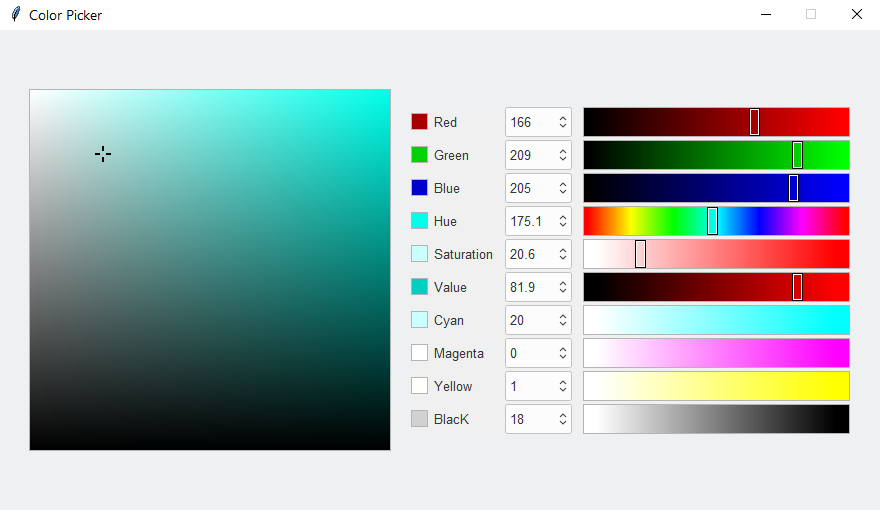
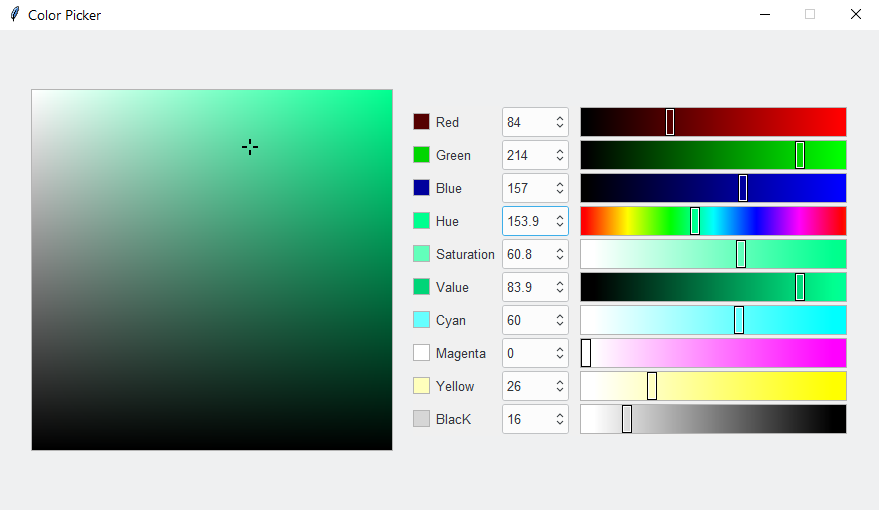
yeah

diff --git a/color palette.py b/color palette.py
@@ -7,7 +7,7 @@ import colorsys
 import math
 from itertools import count
 from functools import partial
-44
+
 #convert RGB to HEX 
 def rgb_to_hex(rgb):
     return '#%02X%02X%02X' % (int(rgb[0]), int(rgb[1]), int(rgb[2]))
@@ -153,16 +153,12 @@ class ColorPicker(ThemedTk):
         self.grid_columnconfigure(4, weight=1)
 
         #key binding
-        self.h_slider.bind('<B1-Motion>', self.pick_hue)
-        self.h_slider.bind('<Button-1>', self.pick_hue)
         self.saturation_value_picker.bind('<B1-Motion>', self.pick_saturation_value)
         self.saturation_value_picker.bind('<Button-1>', self.pick_saturation_value)
-
-        self.bind_slider = lambda i, j, v: self.nametowidget(f'.property.slider_{v}').bind(j, lambda e: self.pick_rgb(e, v, f'rgb{i}'))
-
-        for i, v in enumerate('rgb'): 
-            for j in ['<B1-Motion>', '<Button-1>']:
-                self.bind_slider(i, j, v)
+  
+        [self.nametowidget(f'.property.slider_{v}').bind(j, partial(self.pick_rgb, v, f'rgb{i}')) for j in ['<B1-Motion>', '<Button-1>'] for i, v in enumerate('rgb')]
+        [self.nametowidget(f'.property.slider_{v}').bind(j, partial(self.pick_hsv, v, f'hsv{i}')) for j in ['<B1-Motion>', '<Button-1>'] for i, v in enumerate('hsv')]
+        [self.nametowidget(f'.property.slider_{v}').bind(j, partial(self.pick_cmyk, v, f'cmyk{i}')) for j in ['<B1-Motion>', '<Button-1>'] for i, v in enumerate('cmyk')]
         
         #post initialization
 
@@ -170,15 +166,21 @@ class ColorPicker(ThemedTk):
         self.sliders = {
             **{
                 v: [
-                    self.nametowidget(f'.property.slider_{v}').create_rectangle(self.current_rgb[i].get(), 1, self.current_rgb[i].get()+10, 28, outline='black', width=1),
-                    self.nametowidget(f'.property.slider_{v}').create_rectangle(self.current_rgb[i].get()+1, 2, self.current_rgb[i].get()+9, 27, outline='white', width=1)
+                    self.nametowidget(f'.property.slider_{v}').create_rectangle(self.current_rgb[i].get()+2, 1, self.current_rgb[i].get()+10, 28, outline='black', width=1),
+                    self.nametowidget(f'.property.slider_{v}').create_rectangle(self.current_rgb[i].get()+3, 2, self.current_rgb[i].get()+9, 27, outline='white', width=1)
                 ] for i, v in enumerate('rgb')
             }, 
             **{
                 v: [
-                    self.nametowidget(f'.property.slider_{v}').create_rectangle(self.current_hsv[i].get()*255, 1, self.current_hsv[i].get()*255+10, 28, outline='black', width=1),
-                    self.nametowidget(f'.property.slider_{v}').create_rectangle(self.current_hsv[i].get()*255+1, 2, self.current_hsv[i].get()*255+9, 27, outline='white', width=1)
+                    self.nametowidget(f'.property.slider_{v}').create_rectangle(self.current_hsv[i].get()*255+1, 1, self.current_hsv[i].get()*255+10, 28, outline='black', width=1),
+                    self.nametowidget(f'.property.slider_{v}').create_rectangle(self.current_hsv[i].get()*255+2, 2, self.current_hsv[i].get()*255+9, 27, outline='white', width=1)
                 ] for i, v in enumerate('hsv')
+            }, 
+            **{
+                v: [
+                    self.nametowidget(f'.property.slider_{v}').create_rectangle(self.current_cmyk[i].get()/100*255+1, 1, self.current_cmyk[i].get()/100*255+10, 28, outline='black', width=1),
+                    self.nametowidget(f'.property.slider_{v}').create_rectangle(self.current_cmyk[i].get()/100*255+2, 2, self.current_cmyk[i].get()/100*255+9, 27, outline='white', width=1)
+                ] for i, v in enumerate('cmyk')
             }, 
         }
 
@@ -191,17 +193,15 @@ class ColorPicker(ThemedTk):
             self.current_rgb[i].set(self.nametowidget(f'.property.rgb{i}').get())
             [self.current_hsv[i].set(v) for i, v in enumerate(rgb_to_hsv(*(i.get() for i in self.current_rgb)))]
             [self.current_cmyk[i].set(v) for i, v in enumerate(rgb_to_cmyk(*(i.get() for i in self.current_rgb)))]
-            self.update_property(rgb=False)
         if cat=='hsv':
             self.current_hsv[i].set(float(self.nametowidget(f'.property.hsv{i}').get())/(360 if not i else 100))
             [self.current_rgb[i].set(round(v)) for i, v in enumerate(hsv_to_rgb(*(i.get() for i in self.current_hsv)))]
             [self.current_cmyk[i].set(v) for i, v in enumerate(rgb_to_cmyk(*(i.get() for i in self.current_rgb)))]
-            self.update_property(hsv=False)
         if cat=='cmyk':
             self.current_cmyk[i].set(float(self.nametowidget(f'.property.cmyk{i}').get()))
             [self.current_rgb[i].set(v) for i, v, in enumerate(cmyk_to_rgb(*(i.get() for i in self.current_cmyk)))]
             [self.current_hsv[i].set(v) for i, v in enumerate(rgb_to_hsv(*(i.get() for i in self.current_rgb)))]
-            self.update_property(cmyk=False)
+        self.update_property()
         
     def generate_slider(self):
         rgb_canvas = Image.new("RGB", (266, 28), "#000000")
@@ -224,25 +224,34 @@ class ColorPicker(ThemedTk):
 
         [self.nametowidget(f'.property.slider_{i}').create_image(1, 1, image=eval(f'self.{i}_img'), anchor=NW) for i in 'rgbhsvcmyk']
 
-    def update_slider(self, rgb=True, hsv=True, cmyk=True):
-        if rgb:
-            for i, v in enumerate('rgb'):
-                [self.nametowidget(f'.property.slider_{v}').delete(i) for i in self.sliders[v]]
-                self.sliders[v] = [
-                    self.nametowidget(f'.property.slider_{v}').create_rectangle(self.current_rgb[i].get(), 1, self.current_rgb[i].get()+10, 28, outline='black', width=1),
-                    self.nametowidget(f'.property.slider_{v}').create_rectangle(self.current_rgb[i].get()+1, 2, self.current_rgb[i].get()+9, 27, outline='white', width=1)
-                ]
-        if hsv: 
-            for i, v in enumerate('hsv'):
-                [self.nametowidget(f'.property.slider_{v}').delete(i) for i in self.sliders[v]]
-                self.sliders[v] = [
-                    self.nametowidget(f'.property.slider_{v}').create_rectangle(self.current_hsv[i].get()*255, 1, self.current_hsv[i].get()*255+10, 28, outline='black', width=1),
-                    self.nametowidget(f'.property.slider_{v}').create_rectangle(self.current_hsv[i].get()*255+1, 2, self.current_hsv[i].get()*255+9, 27, outline='white', width=1)
-                ]
-        if cmyk: 
-            pass
+    def update_slider(self):
+        [self.nametowidget(f'.property.slider_{v}').delete('all') for v in 'sv']
+        sv_canvas = Image.new("RGB", (111, 28), "#FFFFFF")
+        sv_draw = ImageDraw.Draw(sv_canvas)
+        sv_img = {f'{v}_img': [sv_draw.line((s, 0, s, 28), fill=tuple(map(int, hsv_to_rgb(self.current_hsv[0].get(), 1 if c else (s-5)/100, (s-5)/100 if c else 1)))) for s in range(111)] and ImageTk.PhotoImage(sv_canvas.resize((265, 28))) for c, v in enumerate('sv')}
+        self.__dict__.update(sv_img)
+        [self.nametowidget(f'.property.slider_{i}').create_image(1, 1, image=eval(f'self.{i}_img'), anchor=NW) for i in 'sv']
 
-    def pick_rgb(self, e, t, n):
+        for i, v in enumerate('rgb'):
+            [self.nametowidget(f'.property.slider_{v}').delete(i) for i in self.sliders[v]]
+            self.sliders[v] = [
+                self.nametowidget(f'.property.slider_{v}').create_rectangle(self.current_rgb[i].get()+1, 1, self.current_rgb[i].get()+10, 28, outline='black', width=1),
+                self.nametowidget(f'.property.slider_{v}').create_rectangle(self.current_rgb[i].get()+2, 2, self.current_rgb[i].get()+9, 27, outline='white', width=1)
+            ]
+        for i, v in enumerate('hsv'):
+            [self.nametowidget(f'.property.slider_{v}').delete(i) for i in self.sliders[v]]
+            self.sliders[v] = [
+                self.nametowidget(f'.property.slider_{v}').create_rectangle(self.current_hsv[i].get()*255+1, 1, self.current_hsv[i].get()*255+10, 28, outline='black', width=1),
+                self.nametowidget(f'.property.slider_{v}').create_rectangle(self.current_hsv[i].get()*255+2, 2, self.current_hsv[i].get()*255+9, 27, outline='white', width=1)
+            ]
+        for i, v in enumerate('cmyk'):
+            [self.nametowidget(f'.property.slider_{v}').delete(i) for i in self.sliders[v]]
+            self.sliders[v] = [
+                self.nametowidget(f'.property.slider_{v}').create_rectangle(self.current_cmyk[i].get()/100*255+1, 1, self.current_cmyk[i].get()/100*255+10, 28, outline='black', width=1),
+                self.nametowidget(f'.property.slider_{v}').create_rectangle(self.current_cmyk[i].get()/100*255+2, 2, self.current_cmyk[i].get()/100*255+9, 27, outline='white', width=1)
+            ]
+
+    def pick_rgb(self, t, n, e):
         if e.x < 5: e.x = 5
         if e.x > 260: e.x = 260
 
@@ -254,37 +263,41 @@ class ColorPicker(ThemedTk):
         ]
         self.nametowidget(f'.property.{n}').set(e.x-5)
         self.update_rgb(f'.property.{n}', e.x-5)
-        self.update_slider(rgb=False)
+        self.update_slider()
 
     #things to do when user pick a new hue value in the colorful line
-    def pick_hue(self, e):
+    def pick_hsv(self, t, n, e):
         #prevent mouse coordinates out of range
         if e.x < 5: e.x = 5
         if e.x > 260: e.x = 260
 
-        [self.h_slider.delete(i) for i in self.sliders['h']]
-        self.sliders['h'] = [
-            self.h_slider.create_rectangle(e.x-5, 1, e.x+5, 28, outline='black', width=1),
-            self.h_slider.create_rectangle(e.x-4, 2, e.x+4, 27, outline='white', width=1)
+        if t=='h':
+            self.curr_hue = (e.x-5)/255*360
+            self.generate_saturation_value()
+
+        slider = self.nametowidget(f'.property.slider_{t}')
+        [slider.delete(i) for i in self.sliders[t]]
+        self.sliders[t] = [
+            slider.create_rectangle(e.x-5, 1, e.x+5, 28, outline='black', width=1),
+            slider.create_rectangle(e.x-4, 2, e.x+4, 27, outline='white', width=1)
         ]
+        #self.nametowidget(f'.property.{n}').set((e.x-5)/255*360 if t=='h' else (e.x-5)/255*100)
+        self.update_hsv(f'.property.{n}', (e.x-5)/255*360 if t=='h' else (e.x-5)/255*100)
+        self.update_slider()
 
-        self.curr_hue = (e.x-5)/255*360
+    def pick_cmyk(self, t, n, e):
+        if e.x < 5: e.x = 5
+        if e.x > 260: e.x = 260
 
-        self.generate_saturation_value()
-
-        self.current_hsv[0].set(self.curr_hue)
-        [self.current_hsv[i].set(self.current_hsv[i].get()*255) for i in range(1, 3)]
-
-        self.format_rgb_hsv()
-        self.update_property()
-        self.update_slider(hsv=False)
-        self.update_cross()
-
-    def format_rgb_hsv(self):
-        self.current_hsv[0].set(self.current_hsv[0].get()/360)
-        [self.current_hsv[i].set(self.current_hsv[i].get()/255) for i in range(1, 3)]
-        [self.current_rgb[i].set(v) for i, v in enumerate([round(i*255) for i in colorsys.hsv_to_rgb(*[i.get() for i in self.current_hsv])])]
-        [self.current_cmyk[i].set(v) for i, v in enumerate(rgb_to_cmyk(*(i.get() for i in self.current_rgb)))]
+        slider = self.nametowidget(f'.property.slider_{t}')
+        [slider.delete(i) for i in self.sliders[t]]
+        self.sliders[t] = [
+            slider.create_rectangle(e.x-5, 1, e.x+5, 28, outline='black', width=1),
+            slider.create_rectangle(e.x-4, 2, e.x+4, 27, outline='white', width=1)
+        ]
+        self.nametowidget(f'.property.{n}').set(e.x-5)
+        self.update_cmyk(f'.property.{n}', (e.x-5)/255*100)
+        self.update_slider()
 
     def onHexValidate(self, d, i, P, s, S, v, V, W):
         if all(i in '0123456789ABCDEFabcdef' for i in S) and len(P) <= 6:
@@ -402,13 +415,13 @@ class ColorPicker(ThemedTk):
         self.current_rgb[int(W.split('.rgb')[-1])].set(int(P))
         [self.current_hsv[i].set(v) for i, v in enumerate(rgb_to_hsv(*(i.get() for i in self.current_rgb)))]
         [self.current_cmyk[i].set(v) for i, v in enumerate(rgb_to_cmyk(*(i.get() for i in self.current_rgb)))]
-        self.update_property(rgb=False)
+        self.update_property()
 
     def update_cmyk(self, W, P): 
         self.current_cmyk[int(W.split('.cmyk')[-1])].set(int(P))
         [self.current_rgb[i].set(v) for i, v, in enumerate(cmyk_to_rgb(*(i.get() for i in self.current_cmyk)))]
         [self.current_hsv[i].set(v) for i, v in enumerate(rgb_to_hsv(*(i.get() for i in self.current_rgb)))]
-        self.update_property(cmyk=False)
+        self.update_property()
 
     def update_hex(self, P):
         self.current_hex.set(P)
@@ -416,7 +429,7 @@ class ColorPicker(ThemedTk):
         [self.current_rgb[i].set(v) for i, v in enumerate(rgb)]
         [self.current_hsv[i].set(v) for i, v in enumerate(rgb_to_hsv(*(i.get() for i in self.current_rgb)))]
         [self.current_cmyk[i].set(v) for i, v in enumerate(rgb_to_cmyk(*(i.get() for i in self.current_rgb)))]
-        self.update_property(hex_=False)
+        self.update_property()
 
     def update_hsv(self, W, P):
         if not int(W.split('.hsv')[-1]): 
@@ -429,17 +442,17 @@ class ColorPicker(ThemedTk):
         [self.current_rgb[i].set(round(v)) for i, v in enumerate(hsv_to_rgb(*(i.get() for i in self.current_hsv)))]
         [self.current_cmyk[i].set(v) for i, v in enumerate(rgb_to_cmyk(*(i.get() for i in self.current_rgb)))]
         
-        self.update_property(hsv=False)
+        self.update_property()
 
     #update values in property section
-    def update_property(self, rgb=True, hsv=True, hex_=True, cmyk=True):
-        if rgb: [self.nametowidget(f'.property.rgb{i}').set(round(self.current_rgb[i].get())) for i in range(3)]
-        if hsv: [self.nametowidget(f'.property.hsv{i}').set(round(self.current_hsv[i].get()*(100 if i else 360), 1)) for i in range(3)]
-        if cmyk: [self.nametowidget(f'.property.cmyk{i}').set(round(self.current_cmyk[i].get(), 1)) for i in range(4)]
-        if hex_: self.current_hex.set(rgb_to_hex([i.get() for i in self.current_rgb])[1:])
+    def update_property(self, color_field=False):
+        [self.nametowidget(f'.property.rgb{i}').set(round(self.current_rgb[i].get())) for i in range(3)]
+        [self.nametowidget(f'.property.hsv{i}').set(round(self.current_hsv[i].get()*(100 if i else 360), 1)) for i in range(3)]
+        [self.nametowidget(f'.property.cmyk{i}').set(round(self.current_cmyk[i].get(), 1)) for i in range(4)]
+        self.current_hex.set(rgb_to_hex([i.get() for i in self.current_rgb])[1:])
         self.update_slider()
             
-        if not all((rgb, hsv, hex_, cmyk)):
+        if not color_field:
             self.curr_hue = self.current_hsv[0].get()*360
             self.current_corr = (self.current_hsv[1].get()*360, 360-self.current_hsv[2].get()*360)
 
@@ -472,9 +485,10 @@ class ColorPicker(ThemedTk):
 
         self.current_corr = [e.x, e.y]
         sv = [e.x, (360-e.y)]
-        [self.current_hsv[i].set(v) for i, v in enumerate((self.curr_hue, *[i/360*255 for i in sv]))]
-        self.format_rgb_hsv()
-        self.update_property()
+        [self.current_hsv[i].set(v) for i, v in enumerate((self.curr_hue/360, *[i/360 for i in sv]))]
+        [self.current_rgb[i].set(v) for i, v in enumerate([round(i*255) for i in colorsys.hsv_to_rgb(*[i.get() for i in self.current_hsv])])]
+        [self.current_cmyk[i].set(v) for i, v in enumerate(rgb_to_cmyk(*(i.get() for i in self.current_rgb)))]
+        self.update_property(color_field=True)
         self.update_cross()
 
     #makes the crosshair to follow user's mouse pointer on saturationn and value palette
